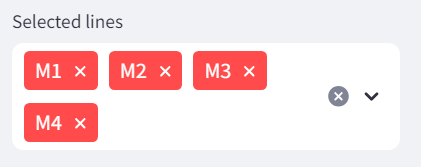
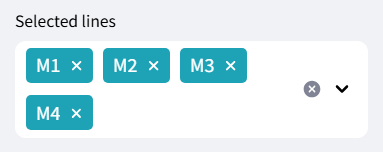
Added MG colours

diff --git a/app.py b/app.py
@@ -4,7 +4,7 @@ App visualizing the CPH Metro's operational status
 ==================================================
 
 Author: kirilboyanovbg[at]gmail.com
-Last meaningful update: 13-03-2025
+Last meaningful update: 16-04-2025
 
 This script contains the source code of the Streamlit
 app accompanying the CPH metro scraper tool. In here,
@@ -23,6 +23,7 @@ import numpy as np
 import datetime as dt
 import streamlit as st
 import plotly.express as px
+import plotly.io as pio
 from plotly_calplot import calplot
 import yaml
 
@@ -33,6 +34,55 @@ with open("text.yaml", "r", encoding="utf-8") as file:
 # Importing links to mapping tables
 with open("mapping_links.yaml", "r", encoding="utf-8") as file:
     mapping_links = yaml.safe_load(file)
+
+
+# %% HTML and color customization
+
+# Creating a custom color palette with the MG colors
+# Using the "Classy" palette from: https://mycolor.space/?hex=%231EA2B5&sub=1
+my_custom_palette = ["#1ea2b5", "#324b4f", "#95b0b5", "#9f8ac3", "#6b588d"]
+my_template = pio.templates["plotly_white"].layout.template
+my_template.layout.colorway = my_custom_palette
+pio.templates["my_custom_template"] = my_template
+pio.templates.default = "my_custom_template"
+
+
+# Replacing the line on top of the app with a custom color
+# Replace the gradient with a solid color (e.g., blue)
+def customize_colors():
+    """
+    Allows for customization of streamlit top bar and the color
+    of the links, which are both not directly editable via Python.
+    Instead, this function uses HTML-based CSS injection to make
+    the required changes.
+    """
+
+    # Change the color of the top bar
+    st.markdown(
+        """
+        <style>
+            div[data-testid="stDecoration"] {
+                background: #1ea2b5;
+            }
+        </style>
+        """,
+        unsafe_allow_html=True,
+    )
+
+    # Change the color of links (a href)
+    st.markdown(
+        """
+        <style>
+        div[data-testid="stMarkdownContainer"] a {
+            color: #1ea2b5 !important;
+        }
+        div[data-testid="stMarkdownContainer"] a:hover {
+            color: #1ea2b5 !important;
+        }
+        </style>
+        """,
+        unsafe_allow_html=True,
+    )
 
 
 # %% Importing data for use in the app
@@ -410,6 +460,7 @@ def colors_for_calplot(data: pd.DataFrame) -> dict:
 
 # Informs the user of the app's purpose
 def show_homepage():
+    customize_colors()
     st.header("Welcome to the CPH metro status app!")
     add_logo()
     st.markdown(text["home_msg_1"])
@@ -419,7 +470,7 @@ def show_homepage():
     )  # image can be disabled in development phase
 
     # Displaying the latest service message from the metro's website
-    st.subheader("Latest service status data", divider="rainbow")
+    st.subheader("Latest service status data", divider="grey")
     if mapping_warning:
         st.warning(mapping_warning)
 
@@ -431,14 +482,14 @@ def show_homepage():
     st.dataframe(most_recent)
 
     # Displaying more info on how the app can help the user
-    st.subheader("How this app can help you", divider="rainbow")
+    st.subheader("How this app can help you", divider="grey")
     st.markdown(text["home_msg_4"])
     msg_text = text["home_msg_5"]
     msg_text = msg_text.format(n_days=n_days)
     st.markdown(msg_text)
 
     # Displaying more info on how to use the app
-    st.subheader("How to use this app", divider="rainbow")
+    st.subheader("How to use this app", divider="grey")
     st.markdown("This app consists of the following two panes:")
     st.markdown(text["home_msg_6"])
     # st.markdown(
@@ -448,9 +499,9 @@ def show_homepage():
     st.markdown("You will then be redirected to the desired page.")
 
     # Displaying more info on how the user can filter the data
-    st.subheader("How to apply filters to the data", divider="rainbow")
+    st.subheader("How to apply filters to the data", divider="grey")
     st.markdown(text["home_msg_7"])
-    st.image("resources/filter_recent_days.PNG")
+    st.image("resources/filter_date.PNG")
     st.markdown(text["home_msg_8"])
     st.image("resources/filter_lines.PNG")
     st.markdown(text["home_msg_9"])
@@ -464,6 +515,7 @@ def show_homepage():
 
 
 def general_overview():
+    customize_colors()
     st.header("Overview")
     add_logo()
 
@@ -665,17 +717,17 @@ def general_overview():
     metric2.metric("Disrupted service, pct of time", str(pct_disruption) + "%")
     metric3.metric("Unknown status, pct of time", str(pct_unknown) + "%")
 
-    st.subheader("Overall service status", divider="rainbow")
+    st.subheader("Overall service status", divider="grey")
     st.markdown(overall_desc)
     plot_or_not(overall_chart, overall_split)
 
-    st.subheader("Detailed service status", divider="rainbow")
+    st.subheader("Detailed service status", divider="grey")
     st.markdown(detailed_desc)
     plot_or_not(detailed_chart, detailed_split)
 
     # Plotting a calendar-based overview
-    st.subheader("Daily service reliability", divider="rainbow")
-    st.markdown(cal_desc)
+    st.subheader("Daily service reliability", divider="grey")
+    st.markdown(cal_desc, unsafe_allow_html=True)
     plot_or_not(cal_fig, cal_data)
 
 
@@ -683,6 +735,7 @@ def general_overview():
 
 
 def disruption_reasons():
+    customize_colors()
     st.header("Disruption reasons")
     add_logo()
 
@@ -857,11 +910,11 @@ def disruption_reasons():
     metric2.metric("Running with delays", str(pct_delay) + "%")
     metric3.metric("Complete service disruptions", str(pct_stop) + "%")
 
-    st.subheader("Kinds of disruptions", divider="rainbow")
+    st.subheader("Kinds of disruptions", divider="grey")
     st.markdown(status_desc)
     plot_or_not(status_chart, detailed_status)
 
-    st.subheader("Reasons behind service disruptions", divider="rainbow")
+    st.subheader("Reasons behind service disruptions", divider="grey")
     st.markdown(reasons_desc)
     plot_or_not(reasons_chart, reasons_split)
 
@@ -873,6 +926,7 @@ def disruption_reasons():
 
 
 def disruption_impact():
+    customize_colors()
     st.header("Disruption impact")
     add_logo()
 
@@ -1414,21 +1468,21 @@ def disruption_impact():
     metric2.metric("Avg disruption % on that day", str(most_imp_day_val) + "%")
     metric3.metric("Most impacted station", str(most_imp_station_name))
 
-    st.subheader("Daily impact of unplanned disruptions", divider="rainbow")
+    st.subheader("Daily impact of unplanned disruptions", divider="grey")
     st.markdown(desc_dsrpt_chance_day)
     plot_or_not(chart_by_day_chance_dsrpt, by_day_chance_dsrpt)
     st.markdown(desc_dsrpt_dist_day)
     plot_or_not(chart_by_day_dist_dsrpt, by_day_dist_dsrpt)
     st.markdown(chance_dist_disclaimer)
 
-    st.subheader("Daily impact of planned maintenance", divider="rainbow")
+    st.subheader("Daily impact of planned maintenance", divider="grey")
     st.markdown(desc_mntn_chance_day)
     plot_or_not(chart_by_day_chance_mntn, by_day_chance_mntn)
     st.markdown(desc_mntn_dist_day)
     plot_or_not(chart_by_day_dist_mntn, by_day_dist_mntn)
     st.markdown(chance_dist_disclaimer)
 
-    st.subheader("Hourly impact of unplanned disruptions", divider="rainbow")
+    st.subheader("Hourly impact of unplanned disruptions", divider="grey")
     st.markdown(desc_dsrpt_chance_period)
     st.warning(rush_disclaimer)
     plot_or_not(chart_by_period_chance_dsrpt, by_period_chance_dsrpt)
@@ -1436,7 +1490,7 @@ def disruption_impact():
     plot_or_not(chart_by_period_dist_dsprt, by_period_dist_dsrpt)
     st.markdown(chance_dist_disclaimer)
 
-    st.subheader("Hourly impact of planned maintenance", divider="rainbow")
+    st.subheader("Hourly impact of planned maintenance", divider="grey")
     st.markdown(desc_mntn_chance_period)
     st.warning(rush_disclaimer)
     plot_or_not(chart_by_period_chance_mntn, by_period_chance_mntn)
@@ -1445,7 +1499,7 @@ def disruption_impact():
     st.markdown(chance_dist_disclaimer)
 
     st.subheader(
-        "Impact of unplanned disruptions during official rush hour", divider="rainbow"
+        "Impact of unplanned disruptions during official rush hour", divider="grey"
     )
     st.markdown(desc_dsrpt_chance_rush)
     plot_or_not(chart_by_rush_chance_dsrpt, by_rush_chance_dsrpt)
@@ -1454,7 +1508,7 @@ def disruption_impact():
     st.markdown(chance_dist_disclaimer)
 
     st.subheader(
-        "Impact of planned maintenance during official rush hour", divider="rainbow"
+        "Impact of planned maintenance during official rush hour", divider="grey"
     )
     st.markdown(desc_mntn_chance_rush)
     plot_or_not(chart_by_rush_chance_mntn, by_rush_chance_mntn)
@@ -1462,12 +1516,12 @@ def disruption_impact():
     plot_or_not(chart_by_rush_dist_mntn, by_rush_dist_mntn)
     st.markdown(chance_dist_disclaimer)
 
-    st.subheader("Most impacted stations", divider="rainbow")
+    st.subheader("Most impacted stations", divider="grey")
     st.markdown(desc_most_impacted)
     plot_or_not(chart_stations_most, most_impacted)
     st.markdown(stations_disclaimer)
 
-    st.subheader("Least impacted stations", divider="rainbow")
+    st.subheader("Least impacted stations", divider="grey")
     st.markdown(desc_less_impacted)
     plot_or_not(chart_stations_least, least_impacted)
     st.markdown(stations_disclaimer)
@@ -1477,6 +1531,7 @@ def disruption_impact():
 
 
 def disruption_history():
+    customize_colors()
     st.header("Disruption history")
     add_logo()
 
@@ -1658,19 +1713,19 @@ def disruption_history():
     metric2.metric("Average disruptions per day", str(avg_per_day))
     metric3.metric("Average duration", str(avg_duration) + "h")
 
-    st.subheader("Number of disruptions", divider="rainbow")
+    st.subheader("Number of disruptions", divider="grey")
     st.markdown(n_desc)
     plot_or_not(n_disr_chart, daily_disruption)
 
-    st.subheader("Disruptions as % of time", divider="rainbow")
+    st.subheader("Disruptions as % of time", divider="grey")
     st.markdown(pct_desc)
     plot_or_not(pct_disr_chart, daily_disruption)
 
-    st.subheader("Duration of disruptions", divider="rainbow")
+    st.subheader("Duration of disruptions", divider="grey")
     st.markdown(h_desc)
     plot_or_not(h_disr_chart, daily_disruption)
 
-    st.subheader("Impacted stations", divider="rainbow")
+    st.subheader("Impacted stations", divider="grey")
     st.markdown(stations_desc_pct)
     plot_or_not(stations_chart_pct, daily_disr_stations)
 
@@ -1682,6 +1737,7 @@ def disruption_history():
 
 
 def disruption_calc():
+    customize_colors()
     st.header("Disruption calculator")
     add_logo()
 
@@ -1758,7 +1814,7 @@ def disruption_calc():
     ]["station"].iloc[0]
 
     # Printing the results to the user
-    st.subheader(f"Chances of disruption at {selected_station}", divider="rainbow")
+    st.subheader(f"Chances of disruption at {selected_station}", divider="grey")
     calc_res_intro = text["calc_res_intro"]
     calc_res_intro = calc_res_intro.format(min_date=min_date, max_date=max_date)
     st.markdown(calc_res_intro)
@@ -1781,19 +1837,20 @@ def disruption_calc():
 
 
 def method_info(mapping_messages, system_downtime):
+    customize_colors()
     st.header("Information on data collection & processing")
     add_logo()
     st.markdown(text["meth_page_desc"])
-    st.subheader("Sourcing operational data", divider="rainbow")
+    st.subheader("Sourcing operational data", divider="grey")
     st.markdown(text["meth_msg_1"])
     st.markdown(text["meth_msg_2"])
 
-    st.subheader("Interpreting status messages", divider="rainbow")
+    st.subheader("Interpreting status messages", divider="grey")
     st.markdown(text["meth_msg_3"])
     st.markdown(text["meth_msg_4"])
     st.dataframe(mapping_messages)
 
-    st.subheader("Dealing with system downtime", divider="rainbow")
+    st.subheader("Dealing with system downtime", divider="grey")
     st.markdown(text["meth_msg_5"])
     st.image("resources/filter_downtime.PNG")
 
@@ -1807,6 +1864,7 @@ def method_info(mapping_messages, system_downtime):
 
 
 def legal_info():
+    customize_colors()
     st.header("Legal disclaimer")
     add_logo()
     st.markdown(text["legal_disclaimer"])
